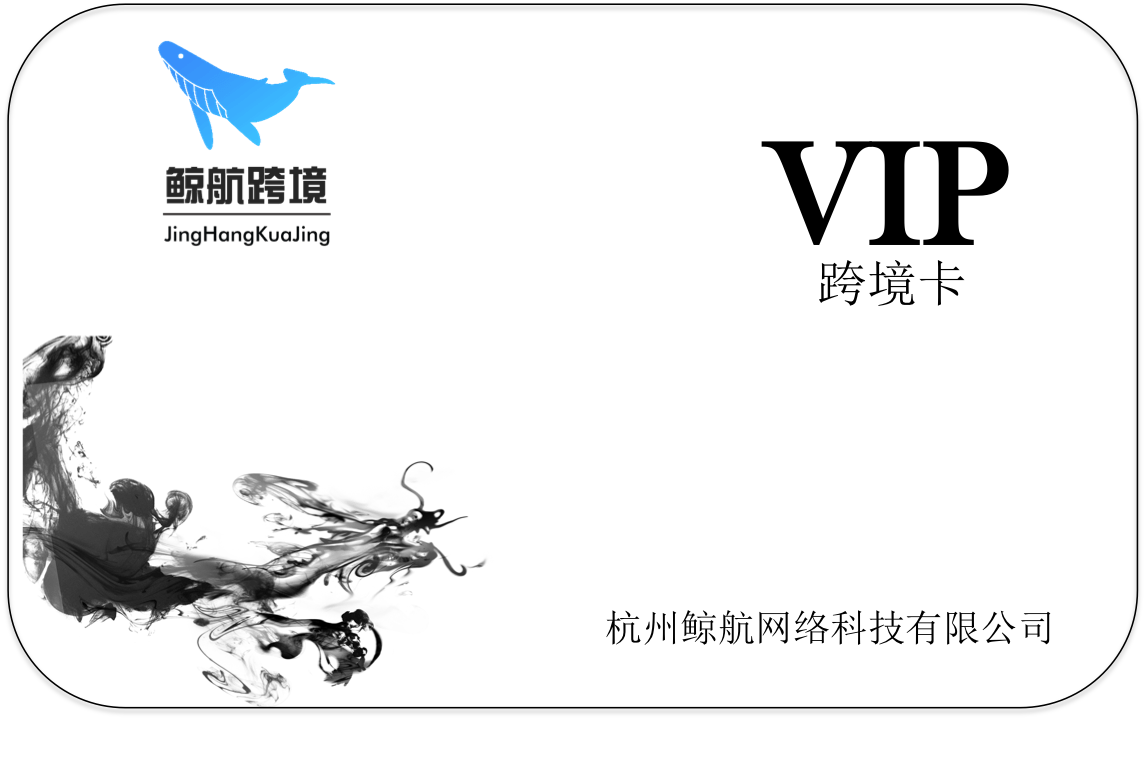
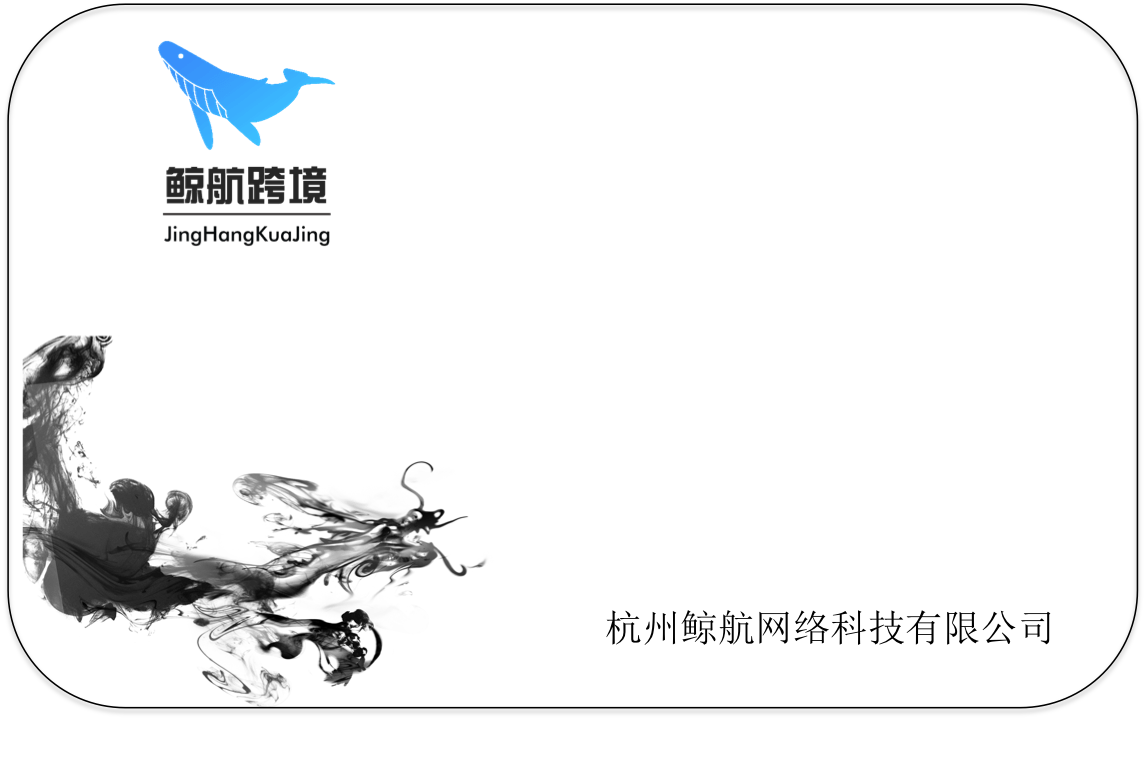
修改

Changed region(s): [[0.6725, 0.1546, 0.8865, 0.4021]]

diff --git a/Application/Wechat/View/Member/index.html b/Application/Wechat/View/Member/index.html
@@ -23,14 +23,14 @@
         <img style="width: 100%;" src="__PUBLIC__/image/banner/banner-mine.jpeg">
       </div>
       <div class="abstract">
-        <h3>成为鲸航VIP</h3>
+        <h3>加入鲸航</h3>
         <p>鲸航跨境-跨境电商平台专属注册通道</p>
       </div>
       <div style="padding: 10px 10px 0px" class="pro-price">
         ￥298元
       </div>
       <div style="padding: 10px;" class="introduce am-g">
-        <div class="introduce-list"><i class="fa fa-circle"></i> 一次开卡永久使用</div>
+        <div class="introduce-list"><i class="fa fa-circle"></i> 永久使用</div>
         <div class="introduce-list"><i class="fa fa-circle"></i> 跨境如此简单</div>
         <div class="introduce-list"><i class="fa fa-circle"></i> 专业的力量</div>
       </div>
@@ -38,7 +38,7 @@
       <div class="pd2222">
         <div class="pro-title">
           <h3>
-            <img class="pro-bar" src="__PUBLIC__/image/bar.png">开卡说明
+            <img class="pro-bar" src="__PUBLIC__/image/bar.png">加入鲸航即享
             <!-- <label class="am-checkbox">
               <input type="checkbox" value="" data-am-ucheck>
             </label> -->
@@ -48,9 +48,10 @@
           ￥100
         </div> -->
         <ol class="pro-info">
-          <li>鲸航跨境卡，尽享优质跨境资源</li>
-          <li>在线学习跨境电商实操</li>
-          <li>加入鲸航跨境联盟，跨境社群大家庭</li>
+          <li>亚马逊“全球开店”招商经理注册通道</li>
+          <li>亚马逊注册开店指导</li>
+          <li>亚马逊基础实操教学教程</li>
+          <li>福利：Lazada、Shopee等其他平台开店指导 （陆续更新中）</li>
         </ol>
       </div>
       <div class="cut-line-bold"></div>
@@ -60,7 +61,7 @@
       <div class="bottom-btn">
         <a href="tel:15267038084" ><i class="fa fa-phone-square fa-lg"></i> 详情咨询</a>
         <a href="{:U('member/register')}"><i class="fa fa-paper-plane fa-lg"></i>
-          开通鲸卡
+          加入鲸航
         </a>
       </div>
       <!-- <a href="{:U('member/register')}" class="bottom-btn">

diff --git a/Application/Wechat/View/Member/info.html b/Application/Wechat/View/Member/info.html
@@ -21,7 +21,7 @@
     <section class="jhkj-contain" style="padding-bottom: 0px">
       <div class="banner tc" style="position: relative;">
         <img style="width: 300px;padding-top: 10px;" src="__PUBLIC__/image/card.png">
-        <span style="position: absolute; bottom: 100px;left: 0;right: 0">No.{$user['member_num']}</span>
+        <span style="position: absolute; bottom: 130px;right: 80px;font-size: 16px;font-weight: bold;">No.{$user['member_num']}</span>
       </div>
       
       <div class="cut-line-bold"></div>

diff --git a/Application/Wechat/View/Shop/index.html b/Application/Wechat/View/Shop/index.html
@@ -50,7 +50,7 @@
           <li>建议使用开店所用的公司资料申请</li>
           <li>请勿用同一个公司多次登记开店申请</li>
           <li>同一套资料同一个站点只能申请开通一个店铺</li>
-          <li style="color: red">注册通道对外开放，加入鲸航VIP可享账号注册指导</li>
+          <li style="color: red">注册通道对外开放，加入鲸航可享注册指导</li>
         </ol>
       </div>
       <div class="tc">

diff --git a/Application/Wechat/View/School/amazonVideo.html b/Application/Wechat/View/School/amazonVideo.html
@@ -49,7 +49,7 @@
        
       </div>
       <a href="{:U('member/register')}" class="bottom-btn">
-        开通鲸航跨境VIPl领取视频教程
+        加入鲸航，领取视频教程
       </a>
       <div class="cut-line-bold"></div>
       <div class="tc">
